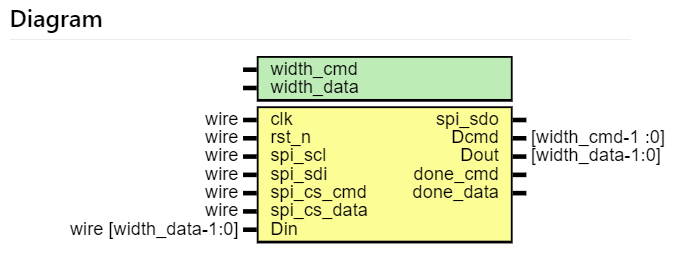
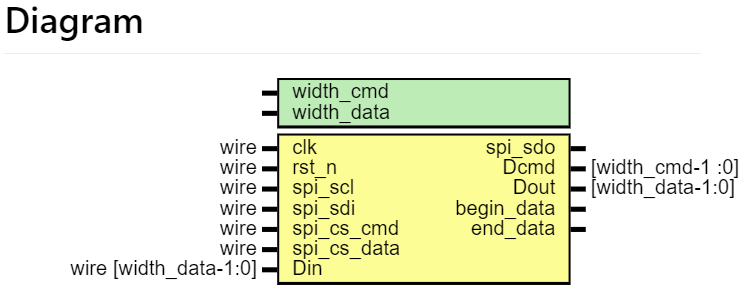
add fifo operate

Changed region(s): [[0.0925, 0.2196, 0.9868, 0.9608], [0.0, 0.0275, 0.2159, 0.1373]]

diff --git a/README.md b/README.md
@@ -16,7 +16,13 @@
 
 		RTL中包含3个文件，sim中是对顶层的仿真。
 
-		实现reg0 = reg1 + reg2 + reg3
+		实现目标：
+
+- [x] reg0 = reg1 + reg2 + reg3
+- [x] fifo读写
+- [ ] ram读写
+
+
 
 | 文件名        | 描述                                       |
 | ------------- | ------------------------------------------ |
@@ -30,7 +36,11 @@
 
 		顶层。
 
+
+
 		利用SPI_if的寄存器接口实现需求设计。
+
+		FIFO需要设置为show-ahead模式。
 
 
 
@@ -38,31 +48,35 @@
 
 		spi接口(interface)。
 
-		![Diagram_SPI_if](README.assets/Diagram_SPI_if.png)
+![Diagram_SPI_if](README.assets/Diagram_SPI_if.png)
 
 		描述所需的寄存器，实现Drv_SPI模块对这些寄存器的读写与寄存器的对外接口。
 
 		其内部Drv_SPI模块的cmd端口用于读写的控制与寄存器地址的译码，cmd地址的最高位为0代表写，为1代表读，其余位参与地址译码。
 
-		![decoder_sample](README.assets/decoder_sample.png)
-
-
+	
 
 ### Drv_SPI.v
 
 		spi的实现。
 
-		![image-20220324234240027](README.assets/Diagram_Drv_SPI.png)
+![Diagram_Drv_SPI](README.assets/Diagram_Drv_SPI.png)
 
-		spi采用mode0，CPOL=0，CPHA=0 。
+* spi采用mode0，CPOL=0，CPHA=0 。
 
-		使用两条ssel对cmd和data进行区分，每次spi传输时只允许使用一条ssel，传输结束时(ssel拉高)，数据会显示在对应的端口上(Dcmd/Dout)，并且对应的结束标志(done_cmd/done_data)会拉高一个周期。cmd与data的位宽可由对应的parameter设置。
+* 使用两条ssel对cmd和data进行区分，每次spi传输时只允许使用一条ssel，传输结束时(ssel拉高)，数据会显示在对应的端口上(Dcmd/Dout)。
+
+* cmd与data的位宽可由对应的parameter设置。
+
+* 传输data时，标志信号begin_data与end_data分别会在传输开始前与结束后拉高一个周期。
+
+![wave_begin_end_data](README.assets/wave_begin_end_data.png)
 
 
 
 #### 仿真波形
 
-		![sim_wave](README.assets/sim_wave.png)
+![sim_wave](README.assets/sim_wave.png)
 
 
 
